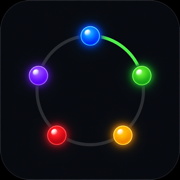
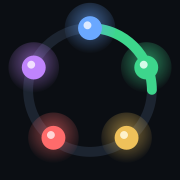
refactor: update SVG assets for improved visual consistency

diff --git a/design-pack/README.md b/design-pack/README.md
@@ -1,0 +1,51 @@
+# Design pack
+
+Brand assets for the GPIO build monitor UI — favicon, logo, apple-touch, and Open Graph card.
+
+## Identity
+
+| Token | Value | Role |
+| --- | --- | --- |
+| Background | `#0b0e13` | Surfaces / icon plate |
+| Ink | `#f3f0e8` | Headings |
+| Muted | `#8a92a1` | Taglines |
+| Fetch | `#6aa8ff` | Blue LED |
+| Pass | `#3dd68c` | Green LED + dial arc |
+| Run | `#efc15a` | Yellow LED |
+| Fail | `#ff6b6b` | Red LED |
+| Error | `#c084fc` | Purple LED |
+| Display | Syne | Wordmark |
+| Body | Manrope | Tagline |
+
+**Mark:** five status LEDs on a dial ring — the same signal lights as the desk hardware and the web UI.
+
+## Sources
+
+| File | Purpose |
+| --- | --- |
+| `mark.svg` | Rounded logo (in-app brand mark, `logo.png`) |
+| `mark-square.svg` | Full-bleed square (apple-touch / PWA; OS masks corners) |
+| `favicon.svg` | Tab icon (simplified for 16–32px) |
+| `social-share.svg` | Open Graph / Twitter card (1200×630) |
+
+## Shipped to the app
+
+```text
+monitor/web/
+  favicon.svg
+  favicon-32.png
+  logo.svg
+  logo.png
+  apple-touch-icon.png
+  icon-192.png
+  icon-512.png
+  social-share.png
+```
+
+`index.html` and `templates/status.html.j2` wire favicon, apple-touch, theme-color, and `og:` / `twitter:` image meta to `/social-share.png`.
+
+## Regenerate PNGs
+
+```bash
+bin/sync-design-pack.sh   # requires librsvg: brew install librsvg
+```
